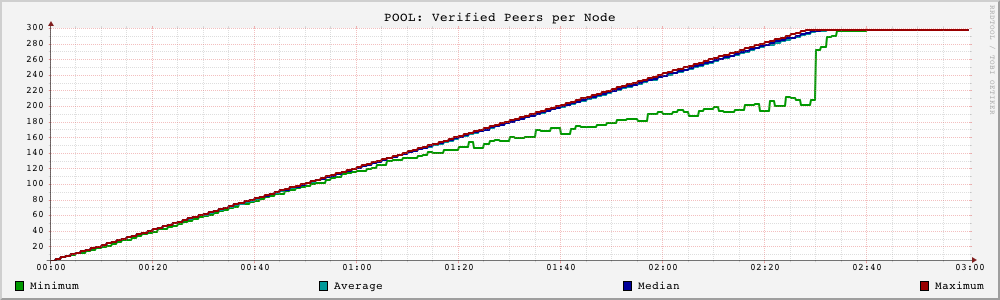
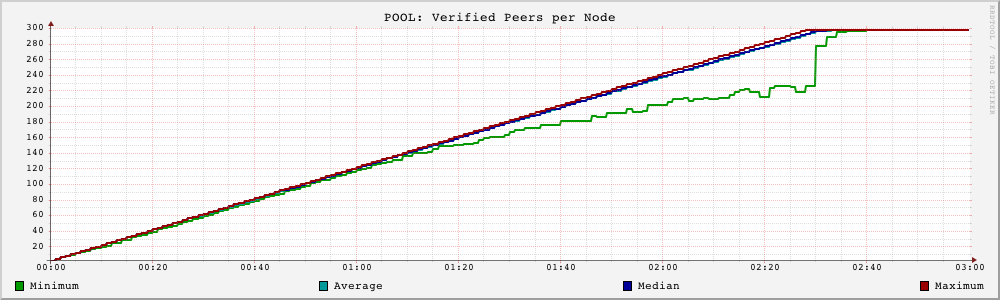
Fix soft_max_inbound in limited-connections/simple report

diff --git a/REPORT.md b/REPORT.md
@@ -126,11 +126,11 @@ only difference that the number of inbound/outbound connection is limited.
 ### Simple Simulation
 
 Same as [Current Protocol](#current-protocol) simple simulation with a limit
-of 10 outbound connections and 1000 inbound connections.
+of 10 outbound connections and 100 inbound connections (soft limit).
 
 #### Command line
 
-  `aesim max_sim_time=3h max_nodes=300 max_outbound=10 max_inbound=1000 rrd_enabled=true`
+  `aesim max_sim_time=3h max_nodes=300 max_outbound=10 soft_max_inbound=100 max_inbound=1000 rrd_enabled=true`
 
 #### Results
 
